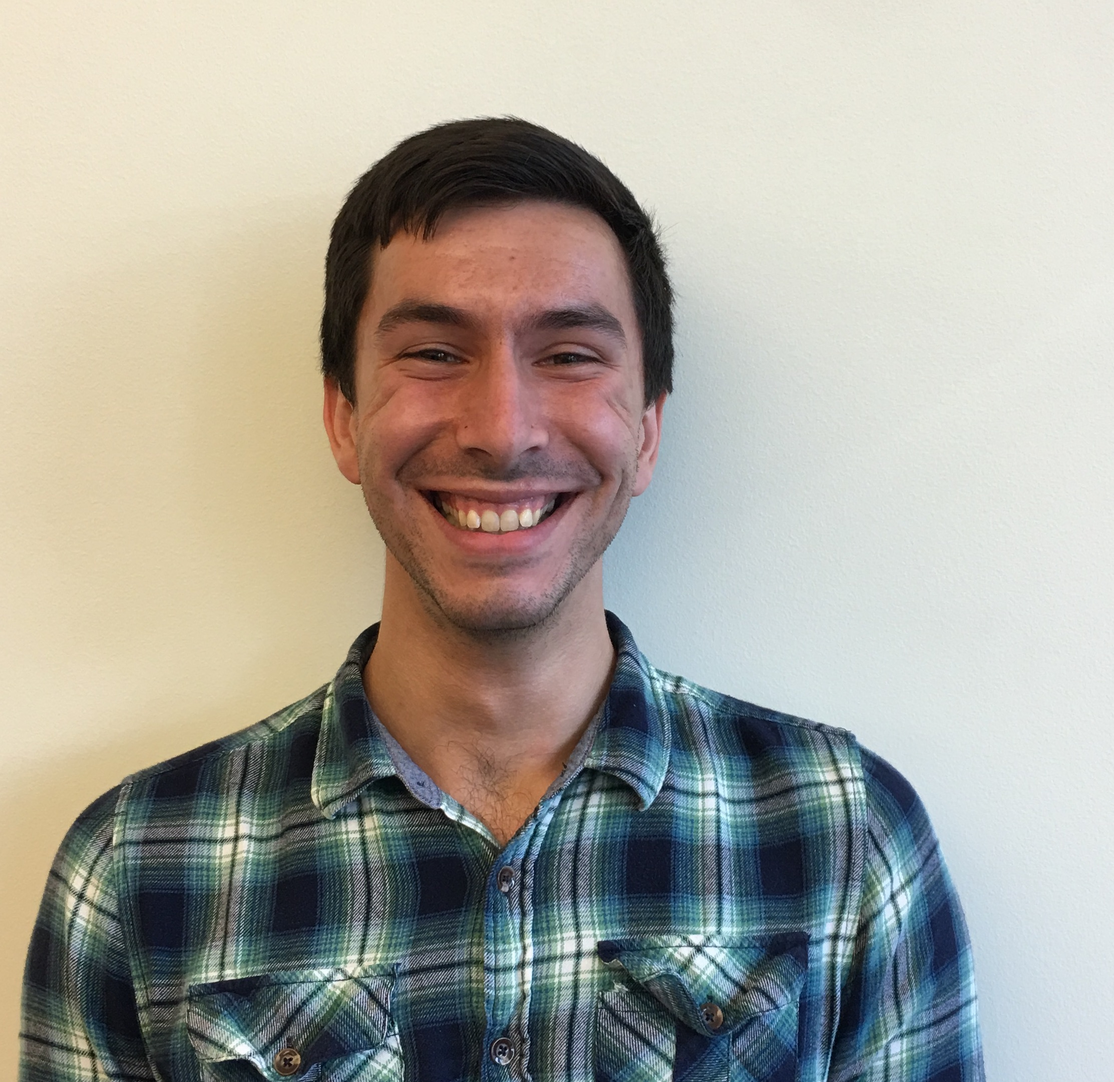
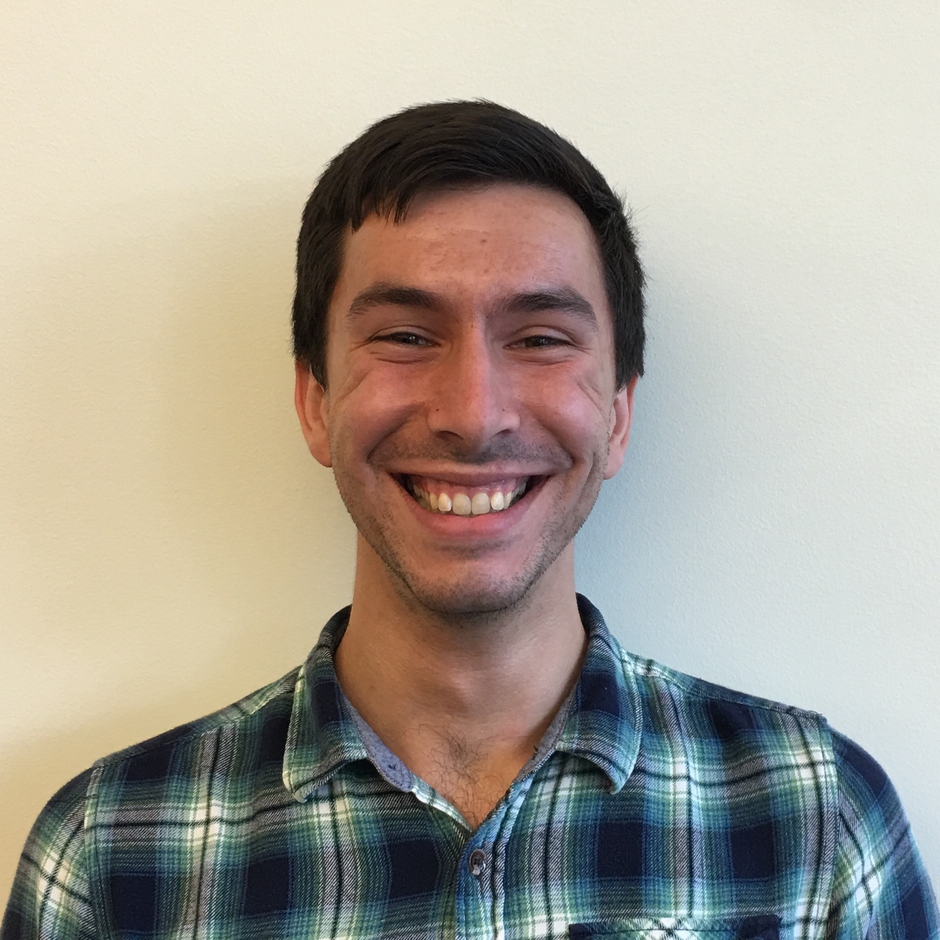
Updated the site.

diff --git a/team/greg-booth/index.html b/team/greg-booth/index.html
@@ -1,0 +1,156 @@
+<!DOCTYPE html>
+<html lang="en">
+
+<head>
+	<meta charset="utf-8"/>
+	<title>Greg Booth</title>
+	<meta name="viewport" content="width=device-width, initial-scale=1.0">
+	
+    <!-- Customized Bootstrap + Font Awesome + Solarized -->
+    <link href="/css/style.css" rel="stylesheet" media="screen">
+
+	<!-- Favicon -->
+	<link rel="shortcut icon" href="/images/favicon.png"/>	
+			
+	<!-- Google Analytics -->	
+	<script>
+		(function(i,s,o,g,r,a,m){i['GoogleAnalyticsObject']=r;i[r]=i[r]||function(){
+		(i[r].q=i[r].q||[]).push(arguments)},i[r].l=1*new Date();a=s.createElement(o),
+		m=s.getElementsByTagName(o)[0];a.async=1;a.src=g;m.parentNode.insertBefore(a,m)
+		})(window,document,'script','//www.google-analytics.com/analytics.js','ga');
+
+		ga('create', 'UA-58618307-1', 'cole-trapnell-lab.github.io');
+		ga('send', 'pageview');
+
+	</script>
+			
+</head>
+
+<body>
+	
+	<div id="header">
+		<nav class="navbar navbar-default navbar-static-top" role="navigation">	 
+			<div class="container">	
+				
+				<div class="navbar-header">
+					<object class="pull-left logo" data="/images/logo.svg" type="image/svg+xml"></object>
+					<a class="navbar-brand" href="/">Trapnell Lab</a>
+				</div>
+				
+				<ul class="nav navbar-nav navbar-right">
+                    <!-- 
+                    <li>
+                    
+                    <a href="/blog/">blog</a>
+                    </li> -->
+					
+					<li>
+					
+					<a href="/papers/">Papers</a></li>
+					
+					<li>
+					
+					<a href="/projects/">Projects</a></li>	  
+					
+					<li class="active">
+					
+					<a href="/team/">People</a></li>	  	  
+				</ul>
+			</div>
+		</nav>	
+	</div>
+	
+	<div class="container">	
+		
+	
+
+<div class="bigspacer"></div>
+
+<div class="row">
+	<div class="col-md-12">
+		<div class="media">
+			
+			<img class="pull-left pad-right media-object" width=120 src="/images/team/greg-booth.JPG">
+			
+			<div class="media-body">
+				<div class="bigtitle media-heading">
+					Greg Booth
+				</div>
+				<p>
+				<div class="smallhead">
+					Postdoctoral Fellow
+				</div>
+			</div>
+		</div>
+	</div>				
+</div>
+
+<div class="bigspacer"></div>
+
+<div class="row">
+	<div class="col-md-3">  			
+			  		
+			
+			
+		
+		<div class="smallhead">
+			GitHub
+		</div>	
+		<div class="pad-left note">
+			<div class="smallspacer"></div>
+			<i class="fa fa-github-alt fa-fw"></i>
+			<a class="off" href="https://github.com/gregtbooth">gregtbooth</a>
+		</div>		
+		<div class="bigspacer"></div>	
+				
+						   	
+		
+		
+		<div class="smallhead">
+			Email
+		</div>	
+		<div class="pad-left note">
+			<div class="smallspacer"></div>
+			<i class="fa fa-inbox fa-fw"></i>
+			gtb7<span style="display:none">obfuscate</span>@uw.edu
+		</div>		
+		<div class="bigspacer"></div>			
+								
+	</div>
+	<div class="col-md-8">	
+		<div class="post">
+			<p>I am a postdoctoral fellow in the Trapnell lab. I’m interested in understanding how chromatin and the non-coding genome influences complex transcriptional programs, such as development and disease. I earned my bachelor’s degree at the University of Toronto and received my PhD from Cornell University, where I worked under John Lis to study the function and evolution of mechanisms that regulate gene transcription.</p>
+
+		</div>
+		
+		
+		
+
+				
+		
+		
+		
+									
+		
+		
+		
+			
+		
+	</div>			
+	<div class="col-md-1"></div>
+</div>	
+
+	
+	</div>
+		
+	<div id="footer"><span style="display:none">foo</span></div>
+	    		
+	<!-- MathJax support -->
+	<script type="text/javascript"
+	 src="http://cdn.mathjax.org/mathjax/latest/MathJax.js?config=TeX-AMS-MML_HTMLorMML"></script>
+	<!-- MathJax config -->
+	<script src="/js/mathjax.config.js"></script>	
+			
+</body>
+</html>
+

diff --git a/team/index.html b/team/index.html
@@ -232,6 +232,20 @@
         </div>	  
     </div><div class="bigspacer"></div>
 
+    <div class="row">
+		<div class="col-md-4 memberbox">
+			<div class="media">
+  				<a class="pull-left" href="/team/greg-booth/">
+    				<img width=170 class="media-object" src="/images/team/greg-booth.JPG">
+  				</a>
+ 			 	<div class="media-body">
+    				<div class="head media-heading"><a href="/team/greg-booth/" class="off">Greg Booth</a></div>
+    				<p class="note">Postdoctoral Fellow</p>
+  				</div>
+			</div>
+        </div>	  
+    
+
 
 <div class="bigspacer"></div>
 <div class="bigspacer"></div>
@@ -241,7 +255,7 @@
 <h1>Alumni</h1>
 
 
-    <div class="row">
+    
 		<div class="col-md-4 memberbox">
 			<div class="media">
   				<a class="pull-left" href="/alumni/xiaojie-qiu/">
@@ -267,9 +281,9 @@
   				</div>
 			</div>
         </div>	  
-    
+    </div><div class="bigspacer"></div>
 
-    
+    <div class="row">
 		<div class="col-md-4 memberbox">
 			<div class="media">
   				<a class="pull-left" href="/alumni/raghav-chawla/">
@@ -281,9 +295,9 @@
   				</div>
 			</div>
         </div>	  
-    </div><div class="bigspacer"></div>
+    
 
-    <div class="row">
+    
 		<div class="col-md-4 memberbox">
 			<div class="media">
   				<a class="pull-left" href="/alumni/delasa-aghamirzaie/">

diff --git a/papers/index.html b/papers/index.html
@@ -174,6 +174,17 @@
 
     
 
+    <li><a href="/team/greg-booth/">Greg Booth</a></li>
+
+    
+        
+    
+
+    
+    
+
+    
+
     <li><a href="/papers/cao-sci-car/">Joint profiling of chromatin accessibility and gene expression in thousands of single cells</a></li>
 
     
